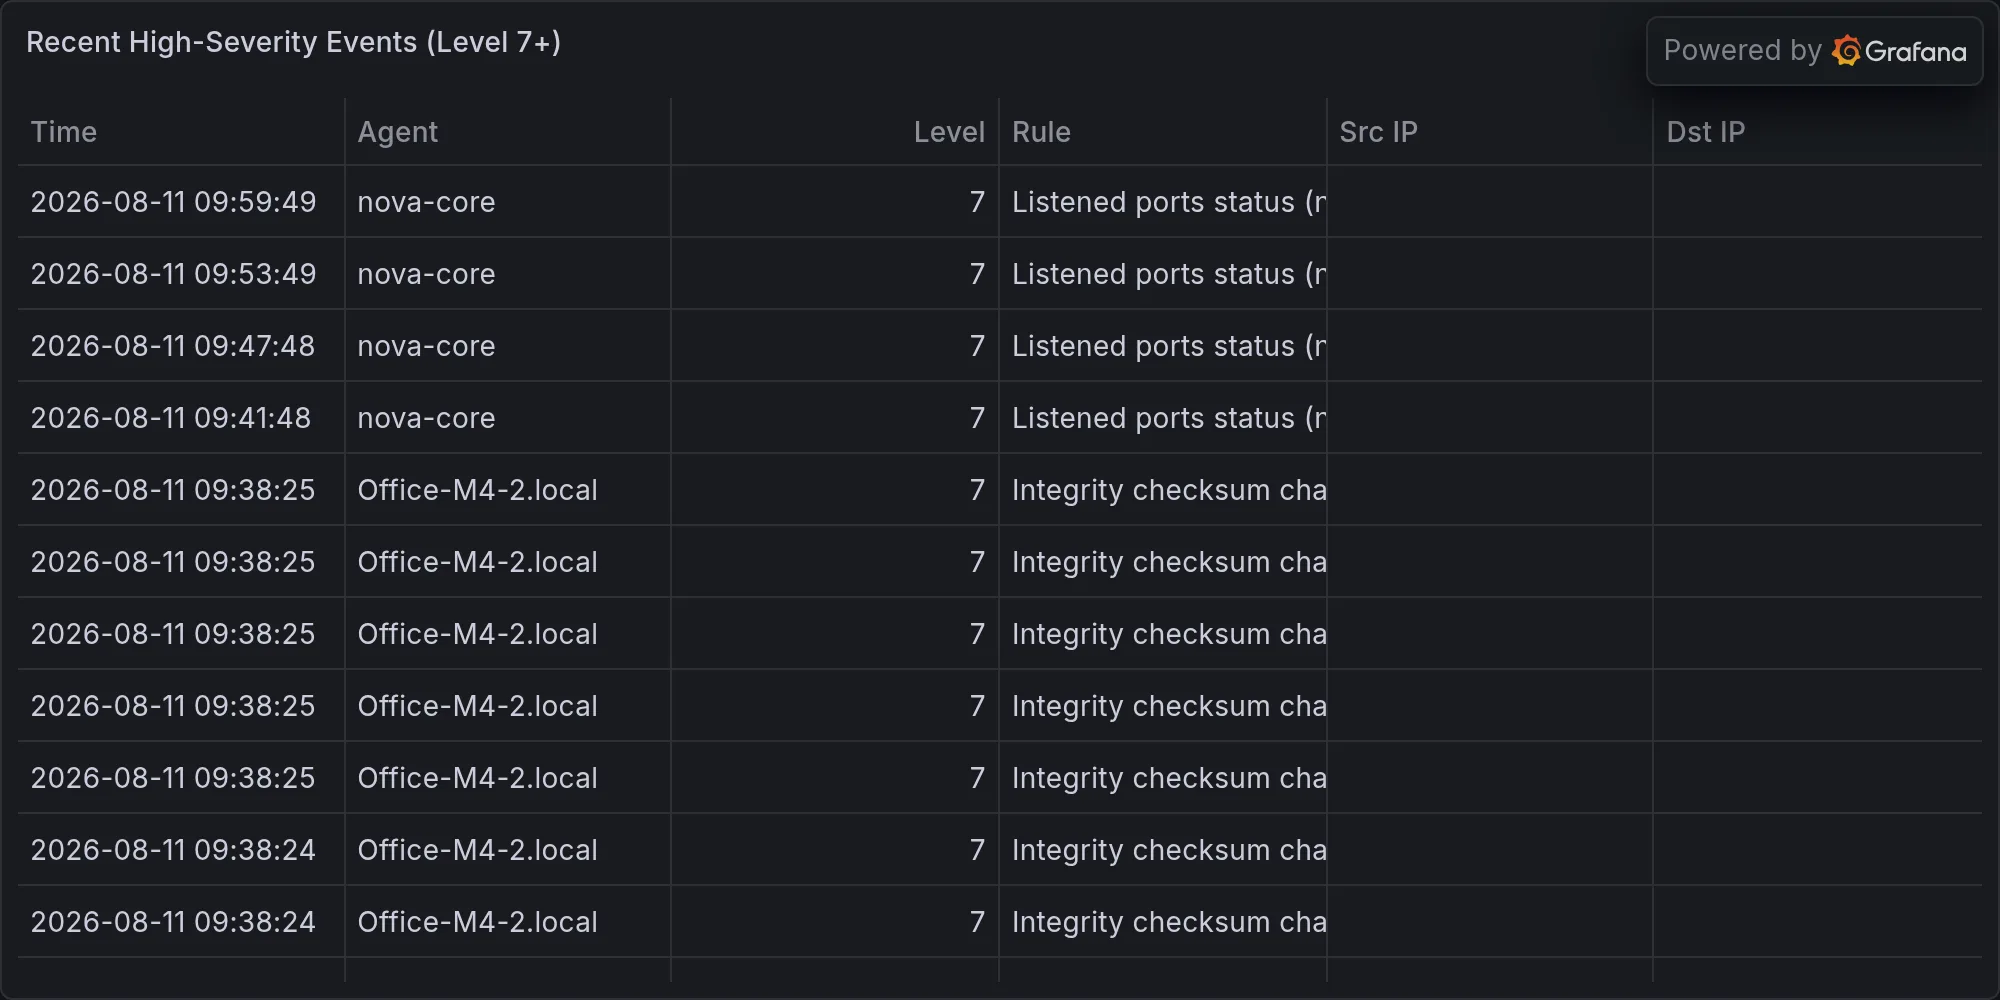
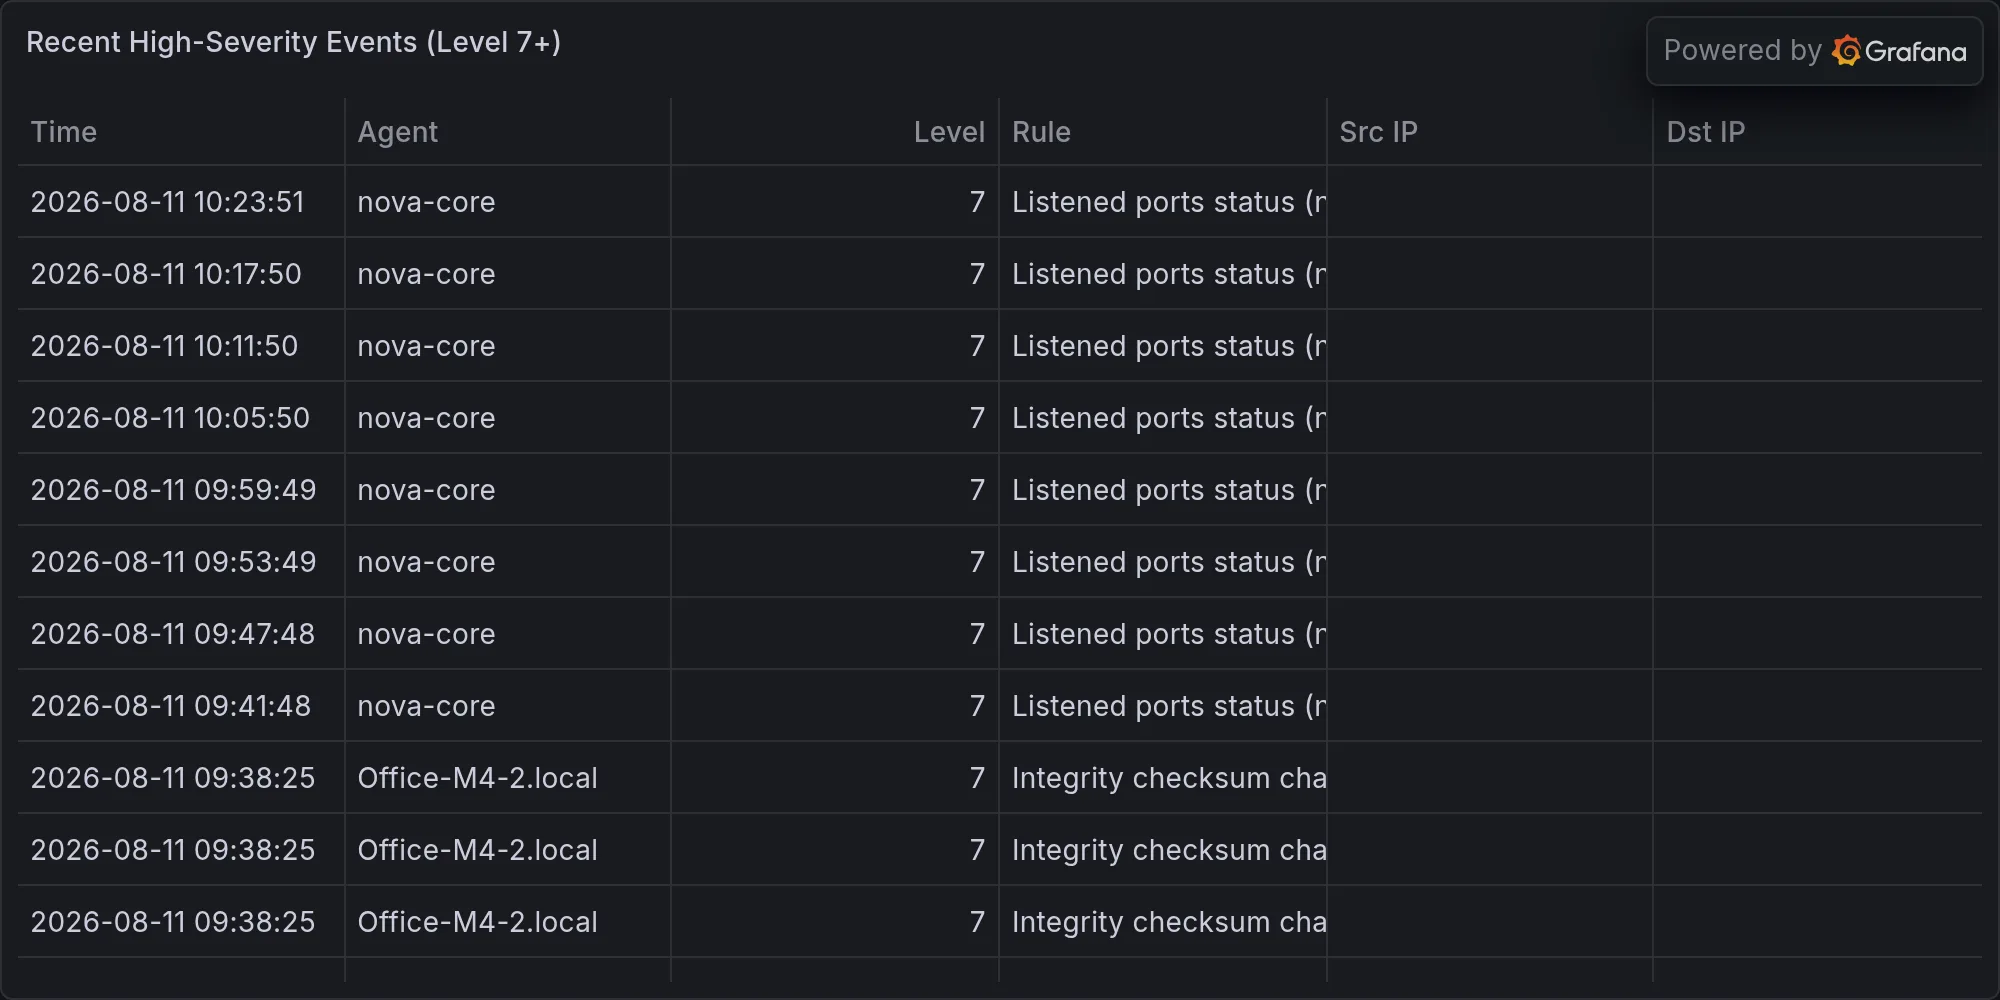
security: 2026-08-11 — **DEVELOPING — CISA CI Fortify Guidance Exposes OT

diff --git a/content/operations/2026-08-11-developing-cisa-ci-fortify-guidance-exposes-ot-isolation-gap.md b/content/operations/2026-08-11-developing-cisa-ci-fortify-guidance-exposes-ot-isolation-gap.md
@@ -1,0 +1,51 @@
+---
+title: "🛡 **DEVELOPING — CISA CI Fortify Guidance Exposes OT Isolation Gap in Enterprise Security Platforms**"
+date: 2026-08-11T10:28:06-07:00
+draft: false
+categories: ["operations"]
+tags: ["breaking-alert", "zscaler", "security"]
+description: "BREAKING: zscaler: : "
+cover:
+  image: "/images/operations/2026-08-11-developing-cisa-ci-fortify-guidance-exposes-ot-isolation-gap.webp"
+  alt: "**DEVELOPING — CISA CI Fortify Guidance Exposes OT Isolation Gap in Enterprise Security Platforms**"
+  relative: false
+---
+
+*Published Tuesday, August 11, 2026 at 10:28 AM PT*
+
+![**DEVELOPING — CISA CI Fortify Guidance Exposes OT Isolation Gap in Enterprise Security Platforms**](/images/operations/2026-08-11-developing-cisa-ci-fortify-guidance-exposes-ot-isolation-gap.webp)
+
+**BLUF:** Five allied governments (CISA, ACSC, FBI, NCSC, Canadian Centre for Cyber Security) published joint guidance (CI Fortify, July 28, 2026) requiring critical infrastructure operators to isolate vital OT systems from corporate networks and maintain service continuity during disconnection. Most enterprise security platforms lack architectural support for this pattern; implementation gap is widespread and unaddressed.
+
+**DETAILS**
+
+- **Guidance document:** CI Fortify published jointly July 28, 2026 by CISA, Australian Signals Directorate (ACSC), FBI, UK NCSC, and Canadian Centre for Cyber Security
+- **Requirement:** Critical infrastructure operators must demonstrate ability to isolate vital OT systems from all other networks during active cyber incident while maintaining essential service delivery in disconnected state
+- **Root gap:** Flat network architectures lack pre-positioned segmentation; enterprise security platforms (Zscaler, others) built for console-first models do not natively support OT isolation + continuity patterns
+- **Scope:** Implementation gap appears universal across major enterprise security vendors; no confirmed single-vendor solution exists
+- **Status:** This is published guidance, not an active incident; no breach or attack campaign confirmed in provided material
+
+**IMPACT**
+
+Critical infrastructure operators (energy, water, communications, transportation) across Five-Eyes jurisdictions now face a compliance requirement they lack tools to satisfy. Time gap between July 2026 publication and typical enterprise procurement/implementation cycles (6–18 months) creates extended window of non-compliance.
+
+**RECOMMENDED ACTIONS**
+
+- Audit your OT segmentation architecture against CI Fortify requirements (isolate, continue)
+- Request technical briefing from your security vendor on OT isolation + disconnected-service-continuity support
+- Flag to procurement: evaluate open-source and bespoke OT isolation solutions (commercial platforms insufficient)
+- Monitor for exploit campaigns targeting OT/corporate network convergence during this gap period
+
+**SOURCES**
+
+CI Fortify guidance (July 28, 2026); vendor positioning commentary from Zscaler; incomplete technical details in source material (flagged as truncated). No vendor-specific vulnerabilities confirmed in provided material.
+
+---
+
+**STATUS:** Incomplete intel — source material truncated. Monitoring for incident confirmation or vendor-specific vulnerability disclosure.
+
+---
+
+**Recent high-severity events at publish time:**
+
+![Recent high-severity events](/images/operations/2026-08-11-breaking-alert-posture.webp)
